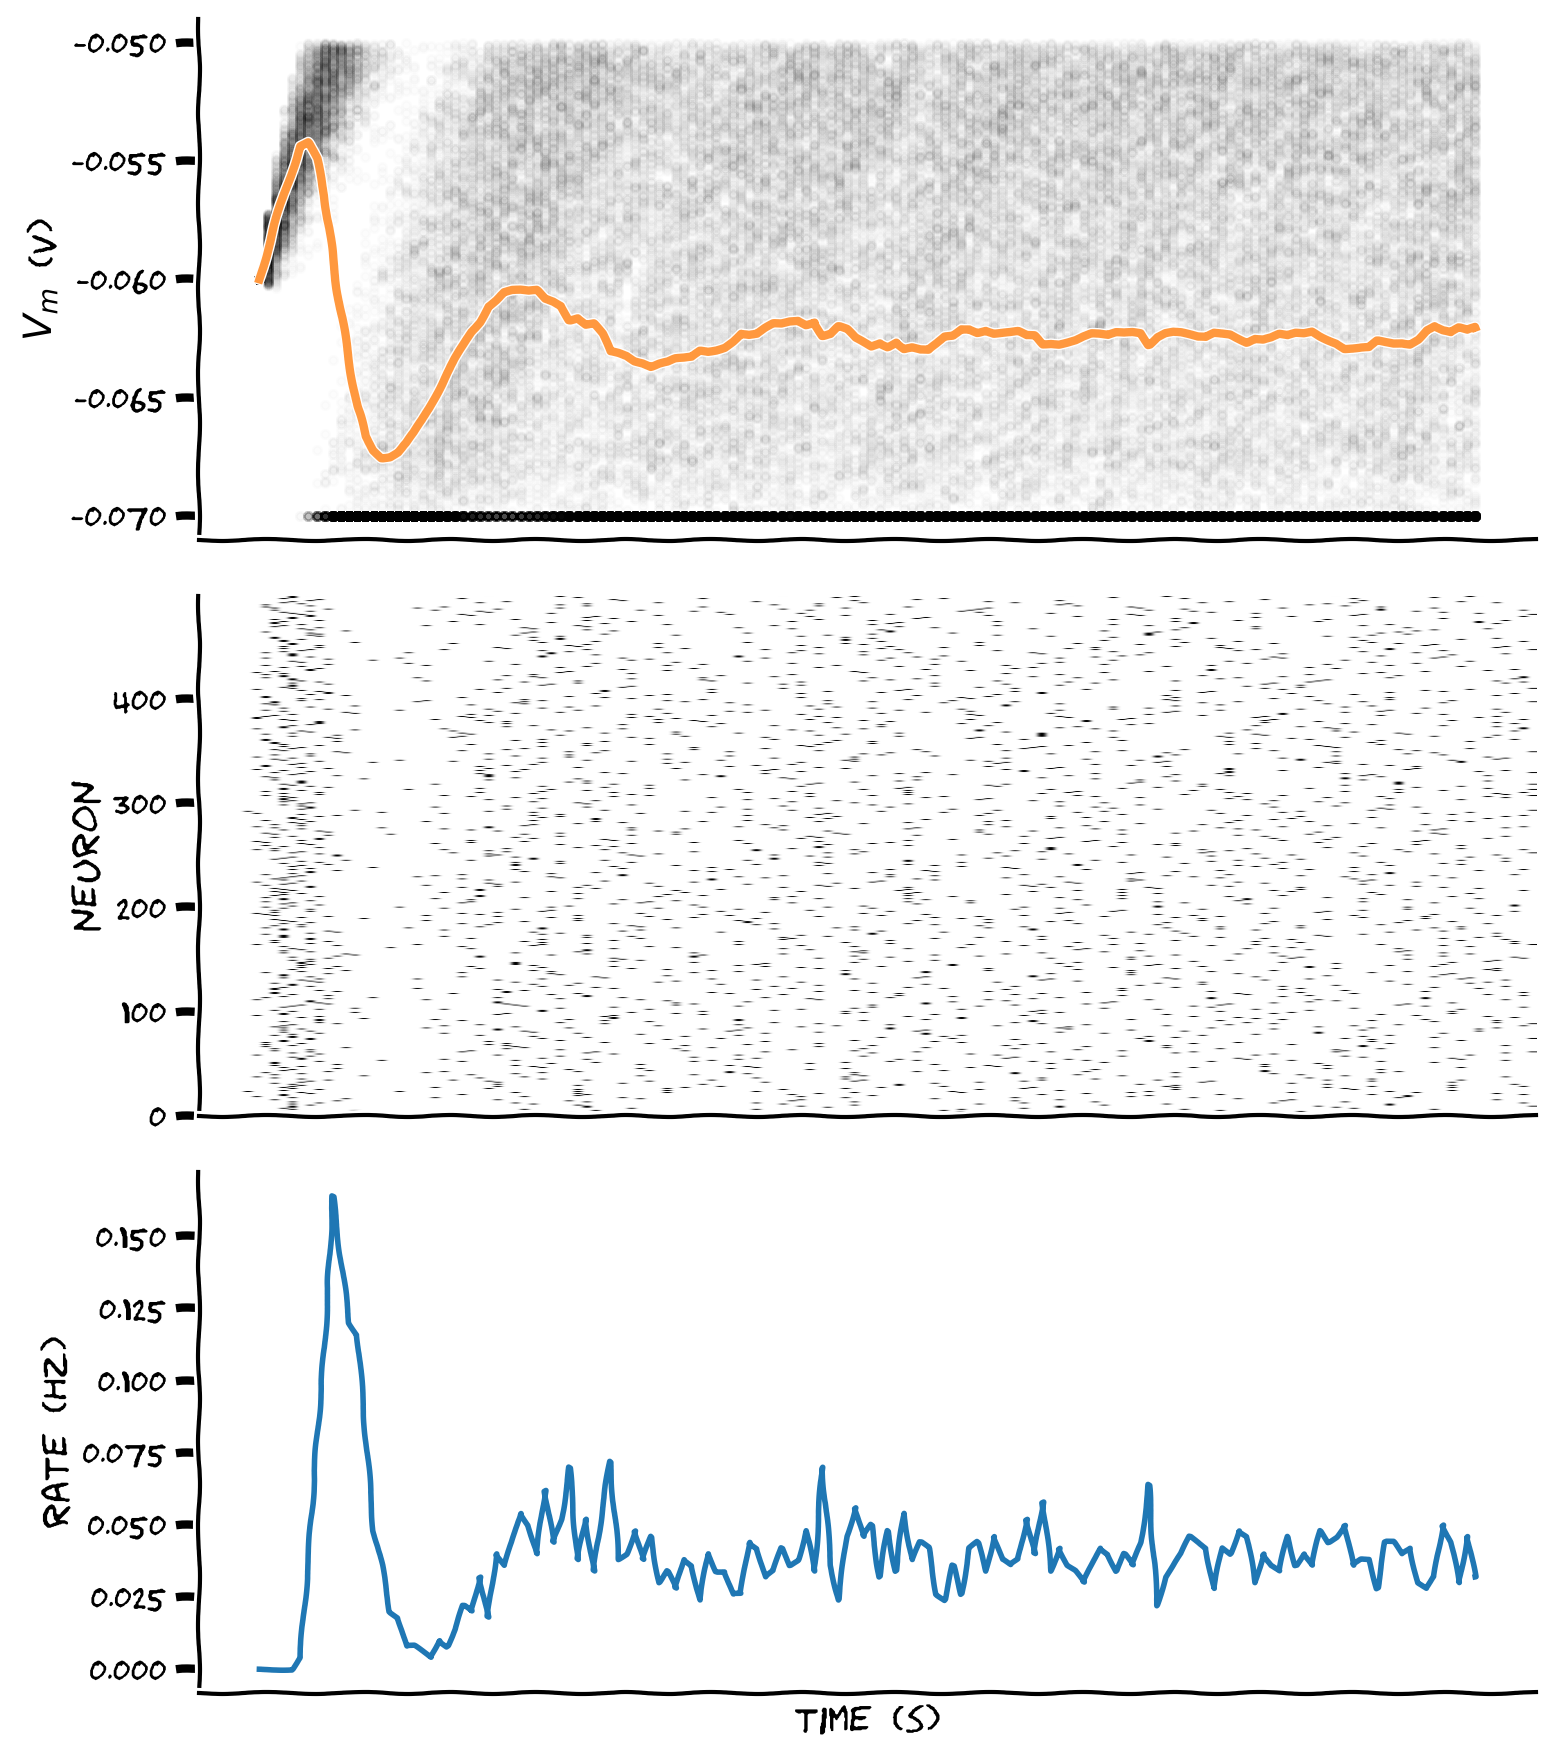
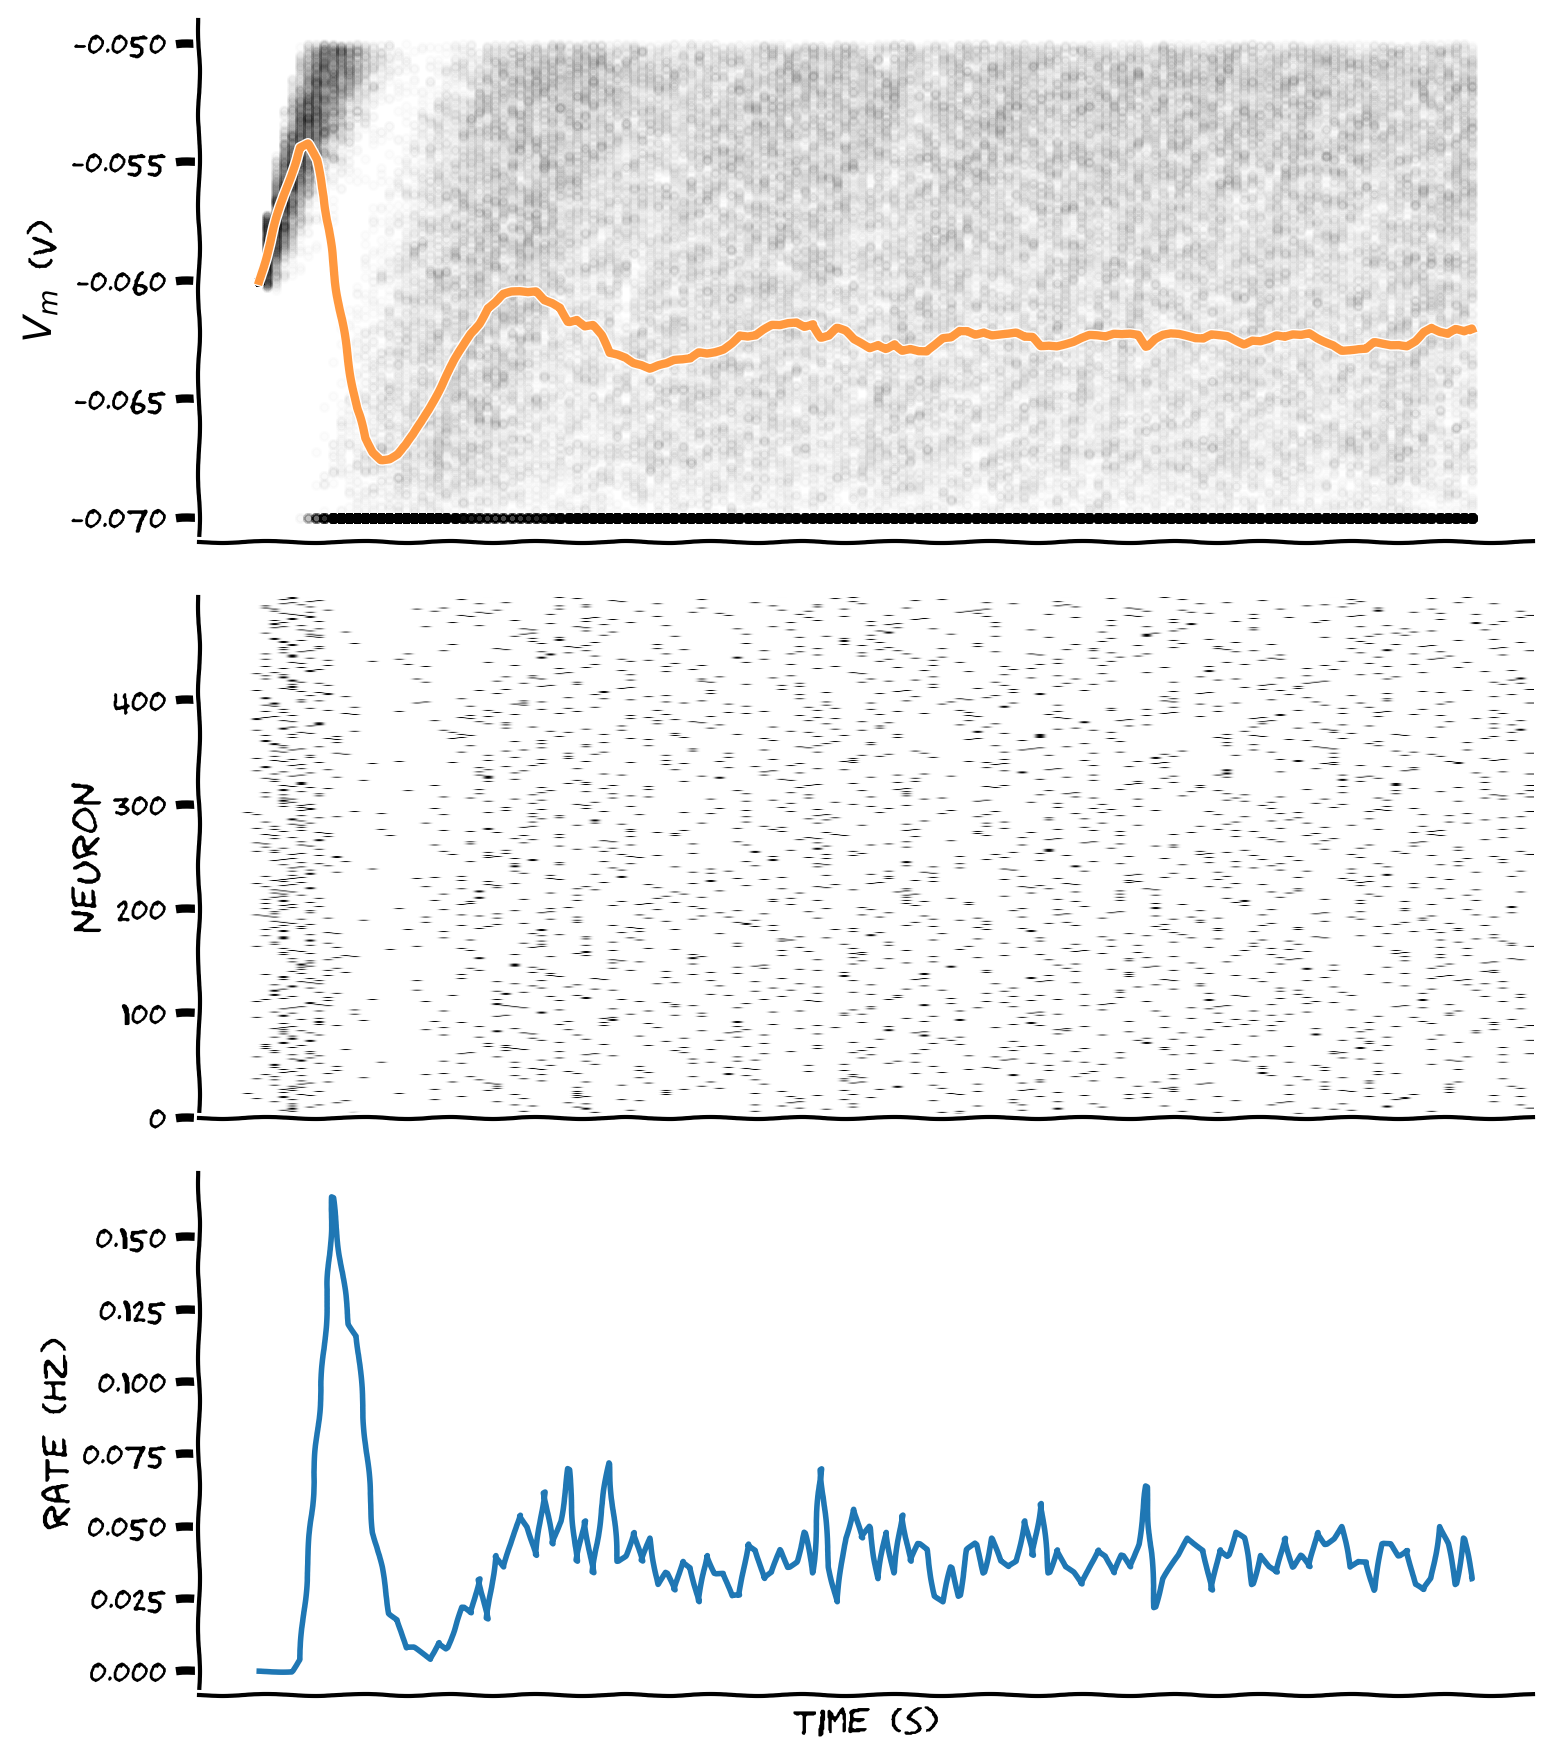
correcting issues (#117)
* add a note for video 5

* correcting a comment

* correct mismatch between code and instructions

* Process tutorial notebooks

---------

diff --git a/tutorials/W0D2_PythonWorkshop2/solutions/W0D2_Tutorial1_Solution_c135b57a.py b/tutorials/W0D2_PythonWorkshop2/solutions/W0D2_Tutorial1_Solution_c135b57a.py
@@ -8,7 +8,7 @@ step_end = len(t_range)
 n = 10000
 v_n = el * np.ones([n, step_end])
 i = i_mean * (1 + 0.1 * (t_max / dt)**(0.5) * (2 * np.random.random([n, step_end]) - 1))
-nbins = 32
+nbins = 50
 
 # Loop over time steps
 for step, t in enumerate(t_range):
@@ -27,14 +27,12 @@ with plt.xkcd():
   plt.xlabel('$V_m$ (V)')
 
   # Plot a histogram at t_max/10 (add labels and parameters histtype='stepfilled' and linewidth=0)
-  plt.hist(v_n[:,int(step_end / 10)], nbins,
-            histtype='stepfilled', linewidth=0,
-            label = 't='+ str(t_max / 10) + 's')
+  plt.hist(v_n[:,int(step_end / 10)], nbins, histtype='stepfilled',
+           linewidth=0, label=f't={t_max / 10} s')
 
   # Plot a histogram at t_max (add labels and parameters histtype='stepfilled' and linewidth=0)
-  plt.hist(v_n[:, -1], nbins,
-            histtype='stepfilled', linewidth=0,
-            label = 't='+ str(t_max) + 's')
+  plt.hist(v_n[:, -1], nbins, histtype='stepfilled',
+           linewidth=0, label=f't={t_max} s')
   # Add legend
   plt.legend()
   plt.show()

diff --git a/tutorials/W0D1_PythonWorkshop1/solutions/W0D1_Tutorial1_Solution_c05a930d.py b/tutorials/W0D1_PythonWorkshop1/solutions/W0D1_Tutorial1_Solution_c05a930d.py
@@ -50,10 +50,10 @@ with plt.xkcd():
     # Plot sample mean using alpha=0.8 and'C0.' for blue
     plt.plot(t, v_mean, 'C0.', alpha=0.8, markersize=10)
 
-    # Plot mean + standard deviation with alpha=0.8 and argument 'C7'
+    # Plot mean + standard deviation with alpha=0.8 and argument 'C7.'
     plt.plot(t, v_mean + v_std, 'C7.', alpha=0.8)
 
-    # Plot mean - standard deviation with alpha=0.8 and argument 'C7'
+    # Plot mean - standard deviation with alpha=0.8 and argument 'C7.'
     plt.plot(t, v_mean - v_std, 'C7.', alpha=0.8)
 
 
